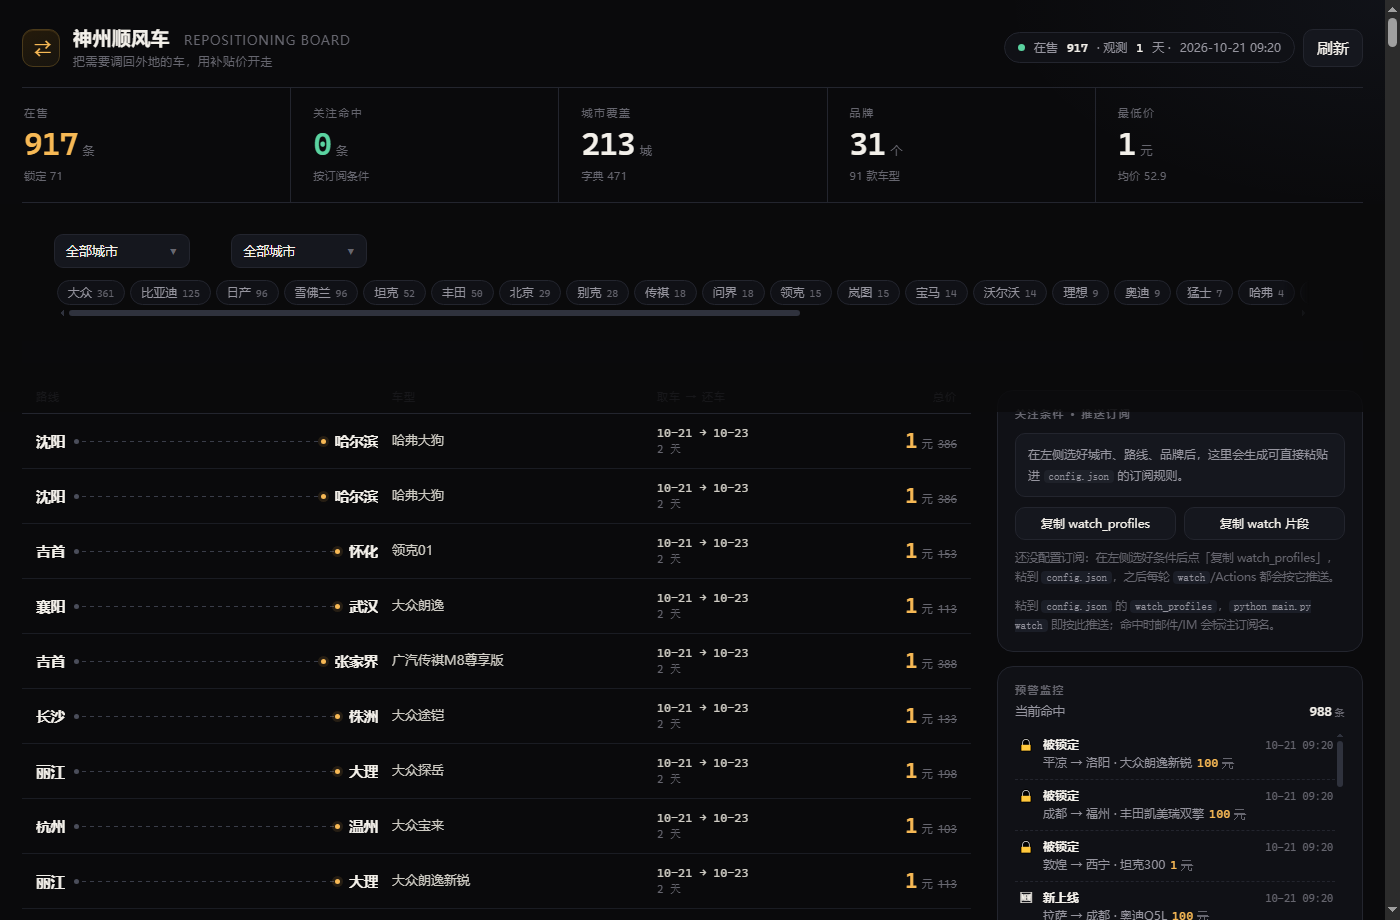
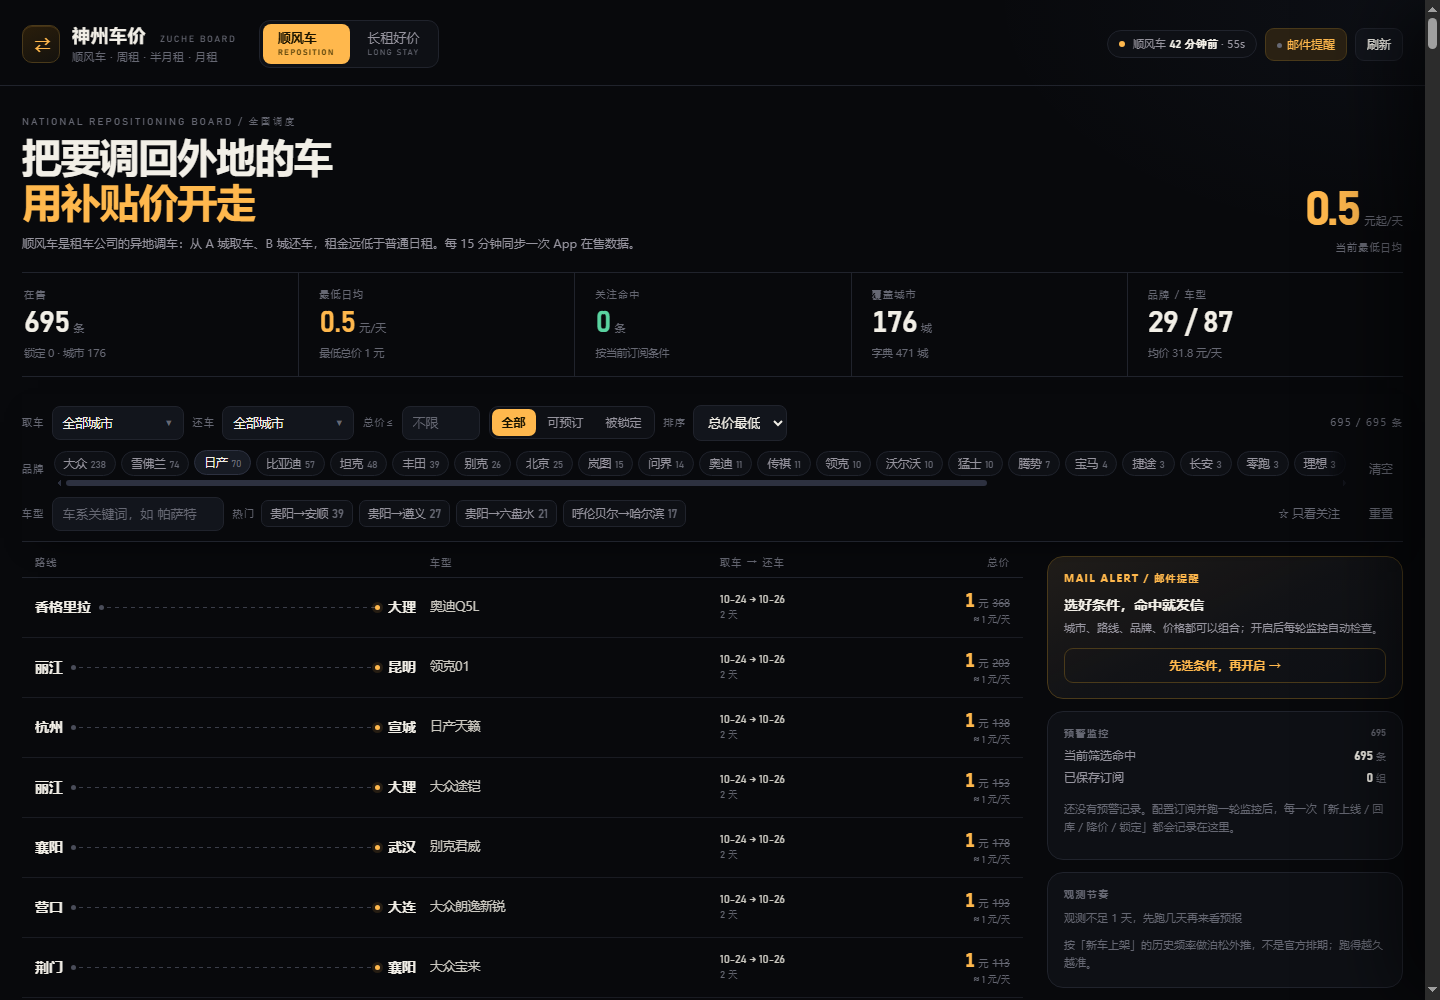
docs: 长租接口与面板截图

diff --git a/docs/REVERSE_ENGINEERING.md b/docs/REVERSE_ENGINEERING.md
@@ -409,3 +409,54 @@ pickupCityName / returnCityName / beginTime / endTime / beginDate / endDate / hi
 |---|---|---|
 | E11 | 列表接口无锁定字段，只能由「是否在列」推断 | 观测（956 条字段并集） |
 | E12 | 偏移分页在数据变动时会漏抓，必须补抓/复核 | 观测（差 1 条 + 定向查询复现） |
+
+---
+
+## 14. 普通租车：周租 / 半月租 / 月租
+
+### 14.1 选车接口（免登录）
+
+```text
+POST https://m.zuche.com/api/gw.do?uri=/resource/carrctapi/order/chooseCar/v3
+data={"pickupCityId":"1","pickupTime":"2026-10-25 10:00",
+      "returnCityId":"1","returnTime":"2026-11-24 10:00",
+      "entrance":1,"userChooseLat":"39.90403","userChooseLon":"116.407526",
+      "holidaysWaitingFlag":0}
+```
+
+响应 `content.deptHangModels[].models[]` 关键字段：
+
+| 字段 | 含义 |
+|---|---|
+| `packagePrice` | 当前租期的套餐日租金（App 列表展示的 ¥X/日均） |
+| `dailyPrice` | 门市日租金（划线价口径） |
+| `lowPrice` | 最低日价，通常等于或略低于 `packagePrice` |
+| `modelGroupId` | 车型组：2 经济 / 9 舒适 / 16 SUV / 23 商务 / 30 豪华 / 44 新能源 |
+| `bookFlag` | 当前门店是否可订 |
+
+接口**只返回租金**，不含基础服务费、车辆整备费。`chooseCar/v2` 字段结构相同，v3 用于新列表。
+
+### 14.2 月租车型组接口（免登录）
+
+```text
+POST https://m.zuche.com/api/gw.do?uri=/action/carrctapi/longRent/modelGroupsList/v1
+data={"cityId":"1"}
+```
+
+响应 `modelGroupList[].lowPrice` 是该城市、该车型组的官方月租起价（元/月），
+用它与同一车型组 30 天租金最低值相减，可校准出该组 30 天的出行服务费：
+
+```text
+service_30 = lowPrice_month - min(rent_30)
+service_per_day = service_30 / 30
+total = rent + service_per_day × days
+```
+
+`data/rental_cities.json` 选 104 个重点城市；`szhitch/rentals.py` 用
+`data/city_centers.json` 的市中心坐标请求最近门店。`dashboard/rental.json`
+是独立产物，每 6 小时刷新，避免拖慢顺风车的 15 分钟轮询。
+
+| 编号 | 结论 | 级别 |
+|---|---|---|
+| E13 | `chooseCar/v3` 只给租金，费用明细接口需要登录 | 观测（未登录返回 `NOT_LOGIN`） |
+| E14 | 官方月租起价可用于校准「租金 + 出行服务费」总价 | 观测 + 推导（与公开必缴样例交叉核对） |
